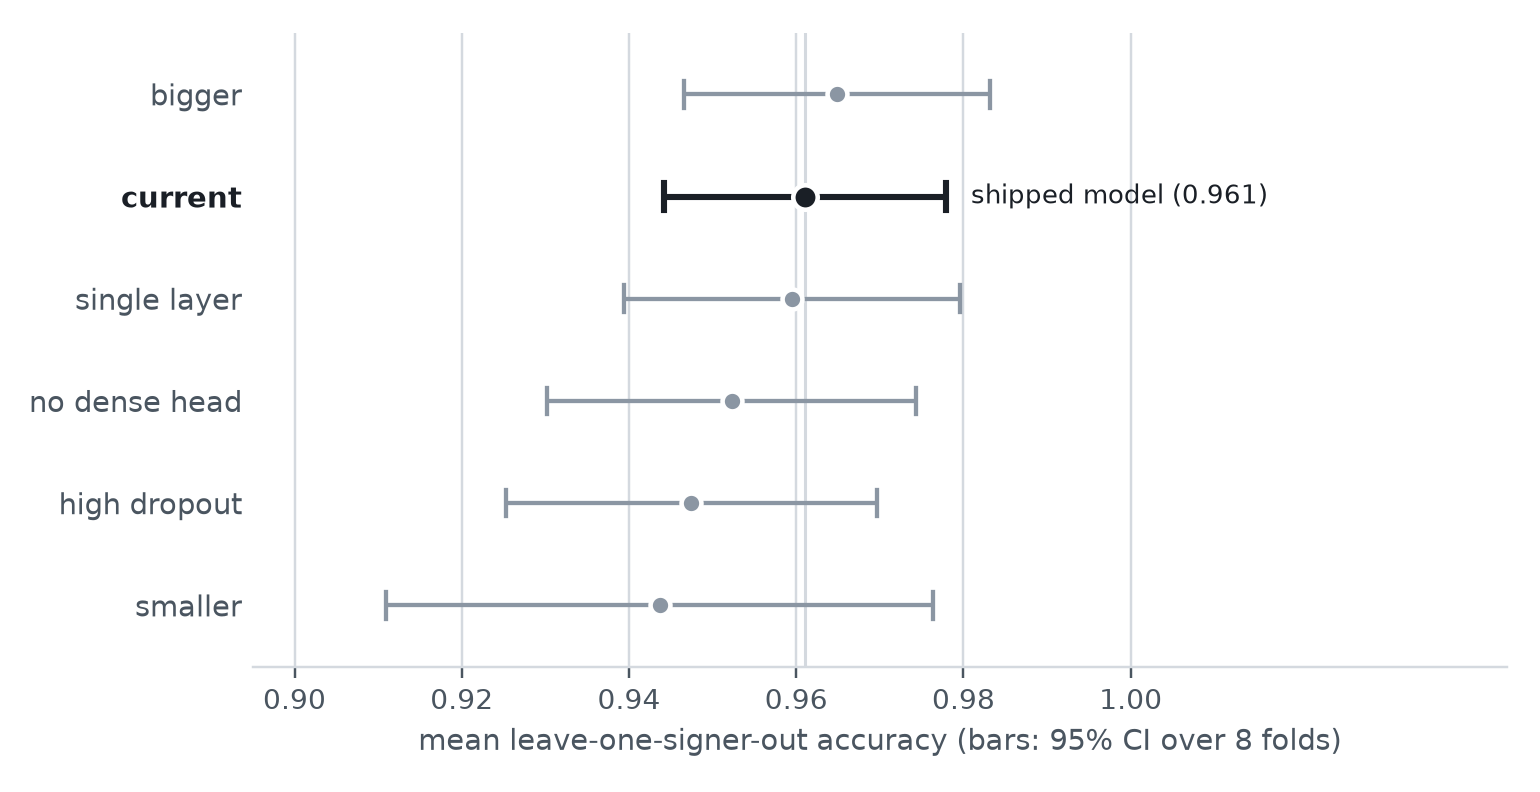
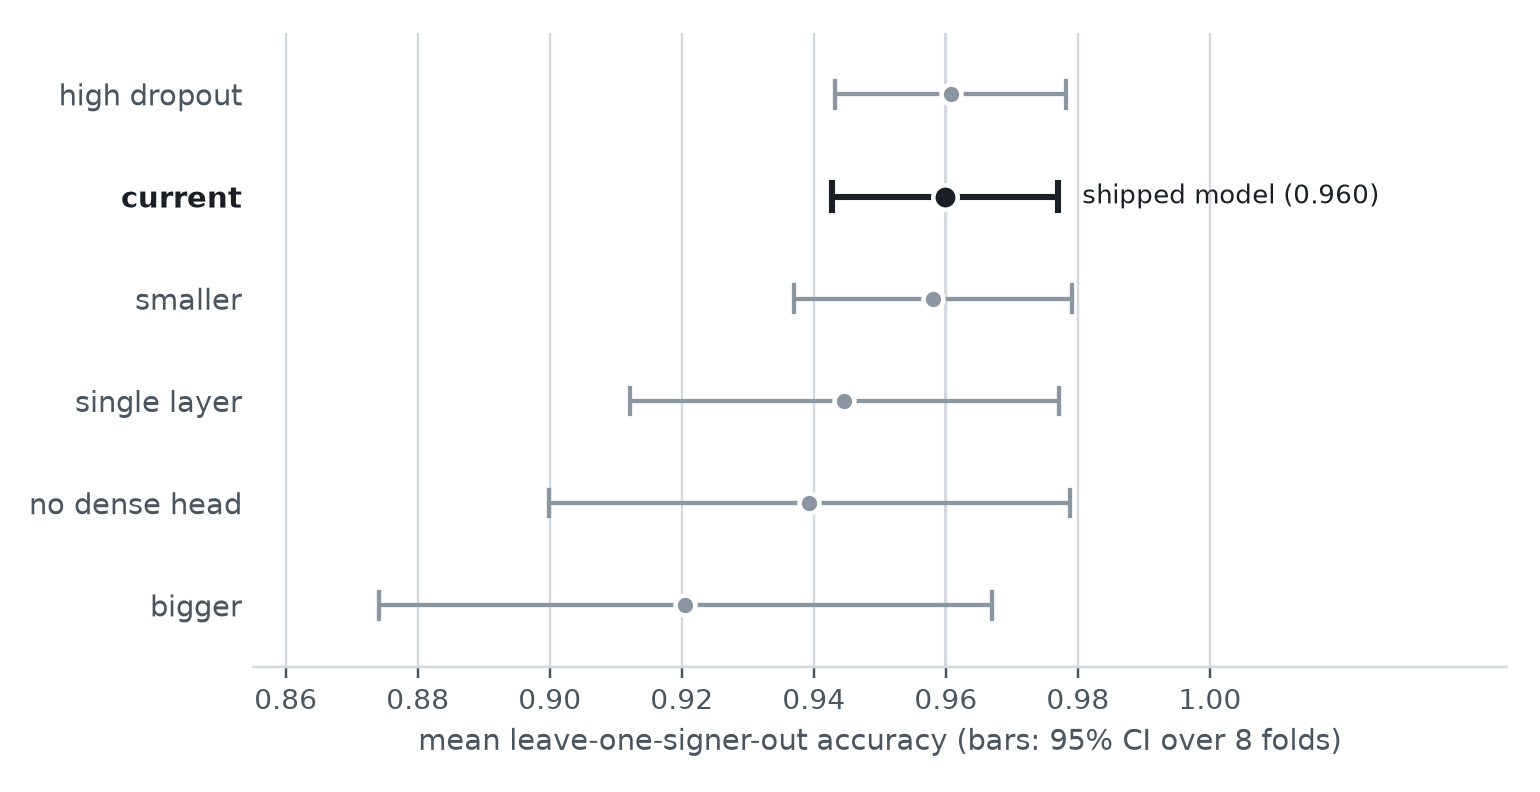
fix: update methodology and results sections for clarity and accuracy

diff --git a/chapter/results.tex b/chapter/results.tex
@@ -247,7 +247,7 @@ Third, the per-fold spread is contained. Eight independently trained models, eac
 different signer, produce accuracies between 0.9286 and 0.9857 with a standard deviation
 of 1.74 percentage points. A model that had memorised its training signers would be
 expected to collapse on some folds and not others; the worst fold here is 5.7 points below
-the best, not thirty. That range is still wider than the 2.1 points separating the best and
+the best, not thirty. That range is still wider than the 4.0 points separating the best and
 worst architectures in Section~\ref{sec:ablation}, which is the finding this chapter keeps
 returning to.
 
@@ -276,12 +276,18 @@ size and depth of the network and nothing else. Table~\ref{tab:ablation} gives t
 Figure~\ref{fig:ablation} shows the same numbers as intervals.
 
 One caveat applies to the whole table before any of its rows are read. The sweep was run on
-the dataset as it stood before the \texttt{none} row of Table~\ref{tab:composition} was
-evened out, and through a parallel runner rather than the single-process one that produced
-Table~\ref{tab:folds}. Every row of Table~\ref{tab:ablation} was produced the same way as
+the same corrected dataset as every other result in this chapter, but through a parallel
+runner that gives each candidate its own process and a restricted thread pool, rather than
+the single-process path that produced Table~\ref{tab:folds}. The shipped architecture
+therefore appears twice in this chapter at slightly different values: 0.960 in
+Table~\ref{tab:ablation} against 0.9518 in Table~\ref{tab:folds}. Section~\ref{sec:experimentsetup}
+records why, in that TensorFlow's parallel reductions move per-fold accuracy when the thread
+configuration changes. Every row of Table~\ref{tab:ablation} was produced the same way as
 every other, so the comparison between architectures, which is what this section is for,
-holds. The absolute values are not directly comparable against Table~\ref{tab:folds},
-and no conclusion below rests on them.
+holds. The absolute values are not directly comparable against Table~\ref{tab:folds}, and no
+conclusion below rests on them. The eight tenths of a point between the two measurements of
+the same architecture is itself a useful floor on how finely any difference in this table can
+be read.
 
 \begin{table}[H]
     \centering
@@ -292,41 +298,37 @@ and no conclusion below rests on them.
         \toprule
         \textbf{Architecture} & \textbf{Units} & \textbf{Dropout} & \textbf{Params} & \textbf{Mean} & \textbf{95\% CI} & \textbf{Epochs} \\
         \midrule
-        bigger                 & 128/64/64  & 0.3 & 535{,}559 & 0.965 & [0.947, 0.983] & 43 \\
-        \textbf{current}       & 64/32/32   & 0.3 & 192{,}007 & 0.961 & [0.944, 0.978] & 42 \\
-        single\_layer          & 64/--/32   & 0.3 & 152{,}839 & 0.960 & [0.939, 0.980] & 43 \\
-        no\_dense\_head        & 64/32/--   & 0.3 & 190{,}151 & 0.952 & [0.930, 0.974] & 40 \\
-        high\_dropout          & 64/32/32   & 0.5 & 192{,}007 & 0.947 & [0.925, 0.970] & 50 \\
-        smaller                & 32/16/16   & 0.3 & 77{,}063  & 0.944 & [0.911, 0.976] & 51 \\
+        high\_dropout          & 64/32/32   & 0.5 & 192{,}007 & 0.961 & [0.943, 0.978] & 44 \\
+        \textbf{current}       & 64/32/32   & 0.3 & 192{,}007 & 0.960 & [0.943, 0.977] & 47 \\
+        smaller                & 32/16/16   & 0.3 & 77{,}063  & 0.958 & [0.937, 0.979] & 45 \\
+        single\_layer          & 64/--/32   & 0.3 & 152{,}839 & 0.945 & [0.912, 0.977] & 43 \\
+        no\_dense\_head        & 64/32/--   & 0.3 & 190{,}151 & 0.939 & [0.900, 0.979] & 42 \\
+        bigger                 & 128/64/64  & 0.3 & 535{,}559 & 0.921 & [0.874, 0.967] & 40 \\
         \bottomrule
     \end{tabular}
 \end{table}
 
 \mustdo{%
-Table~\ref{tab:ablation} and Figure~\ref{fig:ablation} are the only results in this chapter
-that have \emph{not} been regenerated from the corrected dataset. They come from
-\texttt{results/architecture\_sweep.csv}, which was produced before the \texttt{none} row of
-Table~\ref{tab:composition} was evened out, and by
-\texttt{scripts/sweep\_parallel.py} (a separate process per candidate with four intra-op
-threads, against the single-process \texttt{train\_eval.py} that produced
-Table~\ref{tab:folds}). Both differences push the same way: the sweep's \texttt{current} row
-reads 0.961 $\pm$ 0.024 where Table~\ref{tab:folds} reads 0.9518 $\pm$ 0.0174.
+Table~\ref{tab:ablation} and Figure~\ref{fig:ablation} come from the corrected dataset, so
+the mismatch previously flagged here is resolved. One difference remains: the sweep was run
+through \texttt{scripts/sweep\_parallel.py} (a separate process per candidate with four
+intra-op threads) rather than the single-process path that produced
+Table~\ref{tab:folds}, which is why the \texttt{current} row reads 0.960 where
+Table~\ref{tab:folds} reads 0.9518. The paragraph above the table states this, so the chapter
+is defensible as it stands.
 
-The paragraph added above Table~\ref{tab:ablation} states this in the text, so the chapter
-is defensible as it stands. The better fix is to re-run the sweep on the current
-\texttt{data/processed/} through \texttt{scripts/sweep\_architectures.py} single-process, so
-that the \texttt{current} row reproduces Table~\ref{tab:folds} exactly. That run also emits a
-\texttt{gru} variant which this table deliberately omits, since the text claims the cell type
-is held fixed at LSTM. Keep it omitted, or say why it is there. Then refresh
-\texttt{img/architecturesweep.png}, update this table, the 2.1-point span quoted twice
-below, the 0.024--0.047 range, and the four-tenths-of-a-point figure in
-Section~\ref{sec:archcompare}'s discussion in Chapter~3. Then delete this box.}
+To remove the discrepancy entirely, re-run \texttt{python -u scripts/sweep\_architectures.py}
+single-process on the current \texttt{data/processed/}, which takes roughly ninety minutes,
+then refresh \texttt{img/architecturesweep.png} and this table from the new
+\texttt{architecture\_sweep.csv}. That run also emits a seventh variant that swaps the
+recurrent cell, which this table deliberately omits since the text holds the cell type fixed
+at LSTM; keep it omitted. Then delete this box.}
 
-\noindent No candidate is distinguishable from any other. The means span 0.944 to 0.965, but
-with only eight folds the standard error on each one is between 0.9 and 1.7 percentage
+\noindent No candidate is distinguishable from any other. The means span 0.921 to 0.961, but
+with only eight folds the standard error on each one is between 0.9 and 2.4 percentage
 points, and every confidence interval in the table overlaps every other. Even the widest
-separation in the set, between the largest variant and the smallest one, is 2.1 points
-against a standard error of 1.9 on the difference.
+separation in the set, between the highest-dropout variant and the largest one, is 4.0 points
+against a standard error of 2.5 on the difference.
 
 \begin{figure}[H]
     \centering
@@ -336,19 +338,30 @@ against a standard error of 1.9 on the difference.
 \end{figure}
 
 \noindent The comparison that matters more is against the spread within each candidate. The
-fold-to-fold standard deviation of a single architecture ranges from 0.024 to 0.047, which
-is larger than every difference between architectures in the table. Which signer is held
+largest gap between any two architectures in the table is 4.0 points, while the fold-to-fold
+standard deviation within a single architecture runs as high as 6.7. Which signer is held
 out affects the result more than which architecture is trained. That is the substantive
 finding of this section, and Section~\ref{sec:discussion} returns to it.
 
-Three conclusions do follow from the table. Capacity is not the bottleneck: the largest
-variant carries 535{,}559 parameters, 2.8 times the shipped model, and gains four tenths of
-a point for them. A dropout rate of 0.3 is the right setting, since raising it to 0.5 is
-nominally worse and needs 50 epochs to converge instead of 42. And the smallest variant is
-the only one that looks genuinely handicapped, not for its mean, which is within noise of
-the rest, but for a fold-to-fold standard deviation of 0.047, nearly twice the shipped
-model's, and the slowest convergence in the set. A network of 32 and 16 units is too small
-to behave consistently from one held-out signer to the next.
+The clearest single reading of the table is that capacity is not the bottleneck, and past a
+point it is a liability. The largest variant carries 535{,}559 parameters, 2.8 times the
+shipped model, and finishes last: 3.9 points below it, with a fold-to-fold standard
+deviation of 0.067, nearly three times the shipped model's 0.025, and the widest confidence
+interval in the set. The smallest variant makes the same case from the other end. At 77{,}063
+parameters, two fifths of the shipped model, it is 0.18 of a point behind, which is
+indistinguishable. Nothing in the range from 77 thousand to half a million parameters buys
+accuracy on this data, and the upper end of that range costs stability.
+
+The two structural removals behave alike. Dropping the second recurrent layer costs 1.5
+points and dropping the dense head costs 2.1, both well inside the noise on their means, but
+both roughly double the fold-to-fold spread, to 0.047 and 0.057 against 0.025. Their value
+is better read as consistency across signers than as accuracy, which is not something the
+means alone would have shown.
+
+One candidate the sweep does not settle is the dropout rate. Raising it from 0.3 to 0.5
+changes the mean by nine hundredths of a point, the closest pair in the table, and converges
+in slightly fewer epochs. The comparison establishes that 0.3 is not harmful; it does not
+establish that it is better than 0.5, and this report does not claim it.
 
 Two properties of the comparison limit what can be read from it. Each candidate was trained
 once per fold from a single seed, so run-to-run variation from weight initialisation is not
@@ -357,11 +370,11 @@ resolve differences of one or two points whatever statistical test is applied to
 is a property of the design and not of the analysis.
 
 The shipped architecture is therefore retained, not because it measurably outperforms the
-alternatives, but because no alternative measurably outperforms it, and it sits at the
-smaller end of the range over which accuracy has already saturated. The single-layer variant
-is the one worth revisiting should the deployment target ever impose a size budget this model
-misses: it carries 20\% fewer parameters for a difference of one tenth of a point, which is
-well inside the noise, though its fold-to-fold spread is slightly wider.
+alternatives, but because no alternative measurably outperforms it, and it sits in the range
+over which accuracy has already saturated while keeping the narrowest fold-to-fold spread in
+the table. Should the deployment target ever impose a size budget this model misses, the
+smallest variant is the one to revisit first: two fifths of the parameters for a difference
+of two tenths of a point.
 
 \section{Why the Accuracy Is High}
 \label{sec:whyhigh}
@@ -633,7 +646,7 @@ The evaluation protocol is the part of this work most worth carrying forward. Th
 
 Every accuracy in this chapter rests on eight people, four of whom are the authors. The standard deviation across folds is 1.74 points and the range is 5.7, which means the estimate of performance on a new signer is itself uncertain. A ninth signer with an unusual signing style could plausibly score below any fold reported here.
 
-The architecture comparison in Section~\ref{sec:ablation} puts this on a firmer footing than an assertion. Across six architectures spanning 77{,}063 to 535{,}559 parameters, no variant is distinguishable from any other, and the fold-to-fold spread within each one is larger than every difference between them. What limits this system is not the model that was chosen but the number of people it has been measured on.
+The architecture comparison in Section~\ref{sec:ablation} puts this on a firmer footing than an assertion. Across six architectures spanning 77{,}063 to 535{,}559 parameters, no variant is distinguishable from any other, and the widest gap between any two of them is narrower than the range across held-out signers within a single one. What limits this system is not the model that was chosen but the number of people it has been measured on.
 
 Four of the eight signers are also not fluent NSL users. Signers 01 to 04 are the project members, who learned each phrase from the consultants' reference and reproduced it; signers 05 to 08 are the Deaf experts who set that reference in the first place. The dataset therefore contains a mixture of fluent and learned performances, and the accuracy above is an accuracy on that mixture, not on fluent signing alone.
 

diff --git a/chapter/METHODOLOGY.tex b/chapter/METHODOLOGY.tex
@@ -196,9 +196,12 @@ not model expressiveness.
 
 Both halves of that judgement were tested afterwards rather than left as reasoning.
 Widening the recurrent layers to 128 and 64 units and the dense head to 64, which is
-2.8 times the parameter count, moves leave-one-signer-out accuracy by four tenths of a
-percentage point, while the spread between held-out signers is several times that.
-The measurements are reported in Section~\ref{sec:ablation}.
+2.8 times the parameter count, buys no accuracy at all: the larger network finishes last of
+the six variants compared, 3.9 percentage points below the shipped one and with nearly three
+times its fold-to-fold spread. That difference is inside the noise of an eight-fold
+comparison and is not evidence that the larger model is worse, but it is firmly not evidence
+that the parameters were worth adding. The measurements are reported in
+Section~\ref{sec:ablation}.
 
 \subsection{Training Configuration}
 
